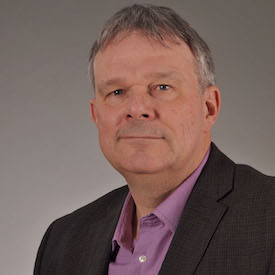
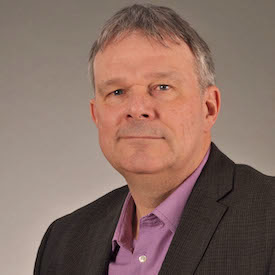
Added in memeber
Added members and editd photo colors

diff --git a/index.html b/index.html
@@ -196,6 +196,34 @@
 									<div class="company">University of Calgary</div>
 									<div class="roles">Antimicrobial Stewardship - Veterinary</div>
 								</div>
+								<a href="mailto:barkema@ucalgary.ca">barkema@ucalgary.ca</a>
+							</div>
+							<div class="team-member">
+								<div class="image">
+									<img src="./images/SuzanneHindmarch.jpg" alt="Suzanne Hindmarch Profile Picture">
+								</div>
+								<div class="name">Suzanne Hindmarch, PhD</div>
+								<div class="extra-info">
+									<div class="role">Associate Professor & Graduate Studies Director</div>
+									<div class="company">Dept. of Political Science, University of New Brunswick</div>
+									<div class="roles">Health security, global health governance, politics of AMR</div>
+								</div>
+								<a href="mailto:s.hindmarch@unb.ca">s.hindmarch@unb.ca</a>
+							</div>
+							<div class="team-member">
+								<div class="image">
+									<img src="./images/Caroline.JPG" alt="Caroline Quach Profile Picture">
+								</div>
+								<div class="name">Caroline Quach, MD MSc</div>
+								<div class="extra-info">
+									<div class="role">Professor, Department of Microbiology, Infectious Diseases, and Immunology</div>
+									<div class="company">Head, Department of Clinical Laboratory Medicine<br>
+										Medical Lead, Infection Prevention & Control<br>
+										CHU Sainte-Justine and Université de Montréal
+									</div>
+									<div class="roles">Infection Prevention and Control-Human, AMR Surveillance</div>
+								</div>
+								<a href="mailto:c.quach@umontreal.ca">c.quach@umontreal.ca</a>
 							</div>
 						</div>
 						<p class="additional-advisory">Additional steering members coming soon</p>
